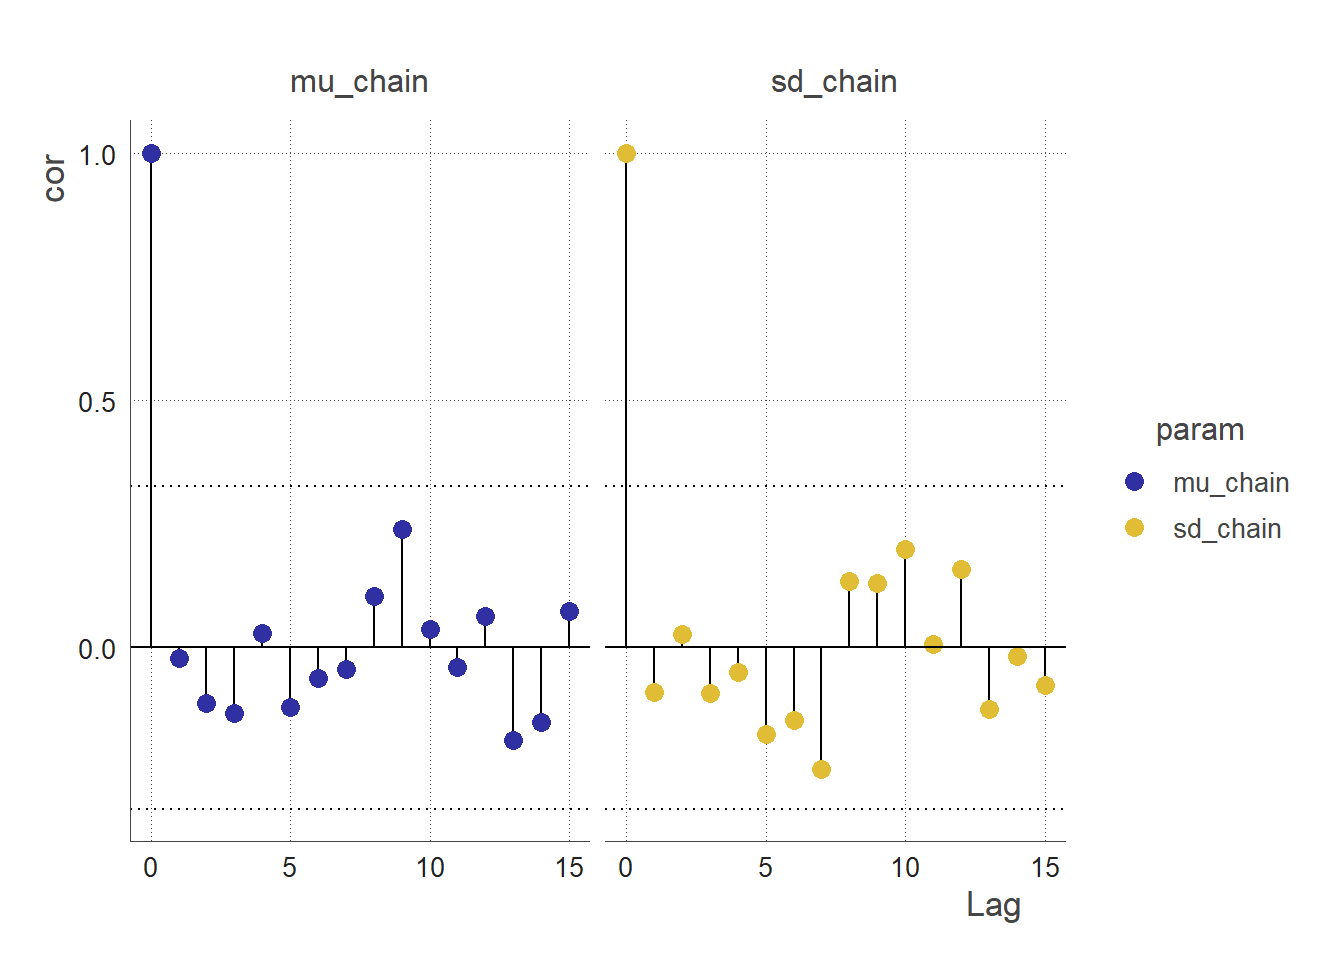
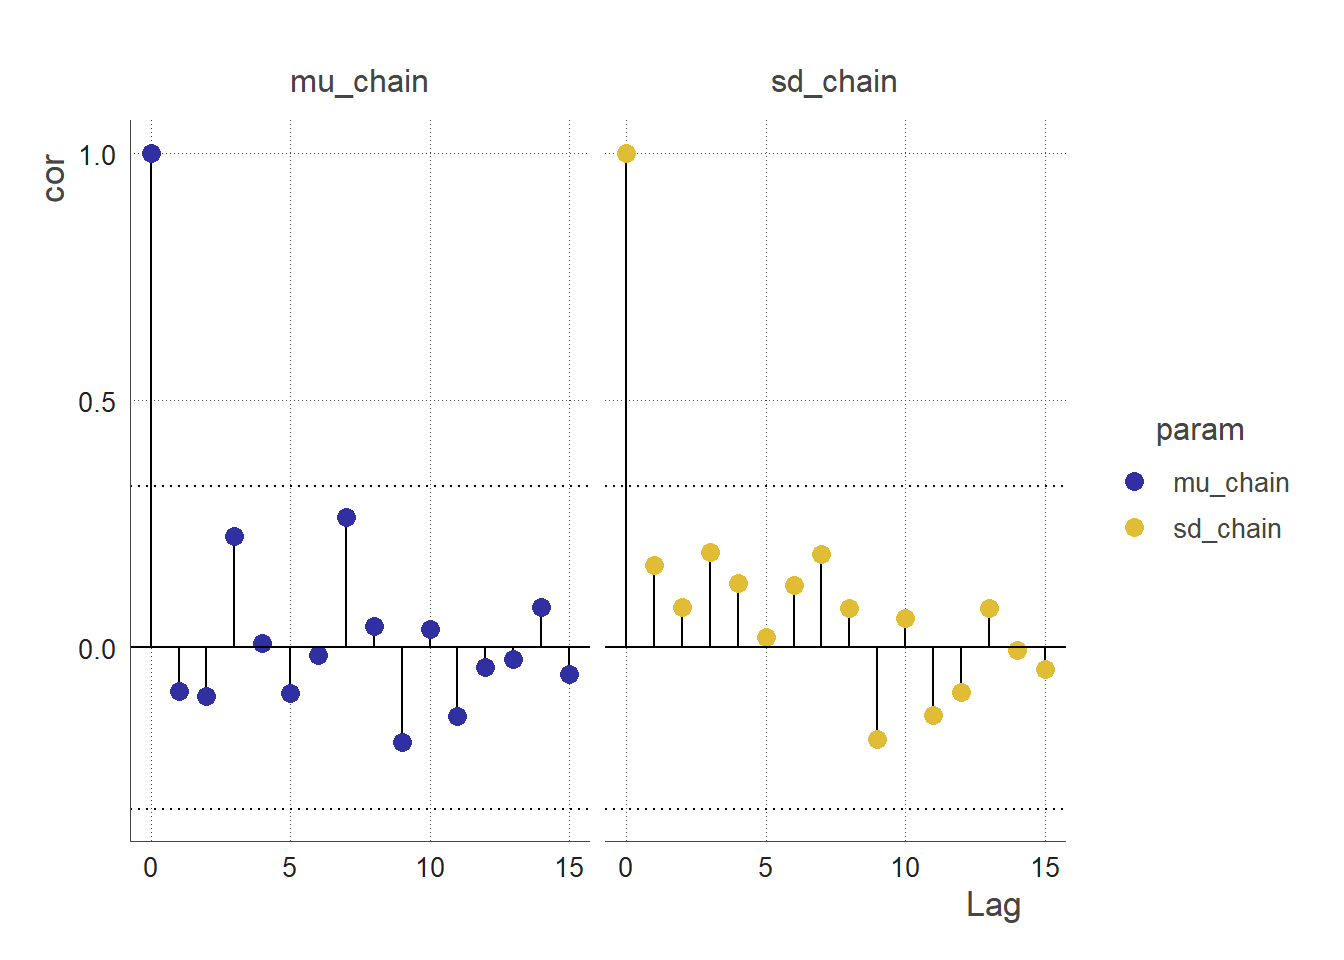
mcmc tuto edit

diff --git a/content/project/TUTO_MCMC/index.md b/content/project/TUTO_MCMC/index.md
@@ -545,12 +545,12 @@ head(output)
     ## # A tibble: 6 × 6
     ##    iter mu_chain sd_chain loglike_chain accept_mu accept_sd
     ##   <int>    <dbl>    <dbl>         <dbl>     <dbl>     <dbl>
-    ## 1     1     5        1           -7029.         0         0
-    ## 2     2     5        4.27        -1962.         0         1
-    ## 3     3     4.95     4.95        -2032.         1         0
-    ## 4     4     4.95     4.95        -2032.         0         0
-    ## 5     5     4.95     4.95        -2032.         0         0
-    ## 6     6     4.95     4.32        -1962.         0         1
+    ## 1     1        5     1           -6979.         0         0
+    ## 2     2        5     4.83        -2019.         0         1
+    ## 3     3        5     5           -2039.         0         0
+    ## 4     4        5     4.68        -2002.         0         1
+    ## 5     5        5     5           -2039.         0         0
+    ## 6     6        5     4.44        -1977.         0         1
 
 ## Analysing the MCMC output
 
